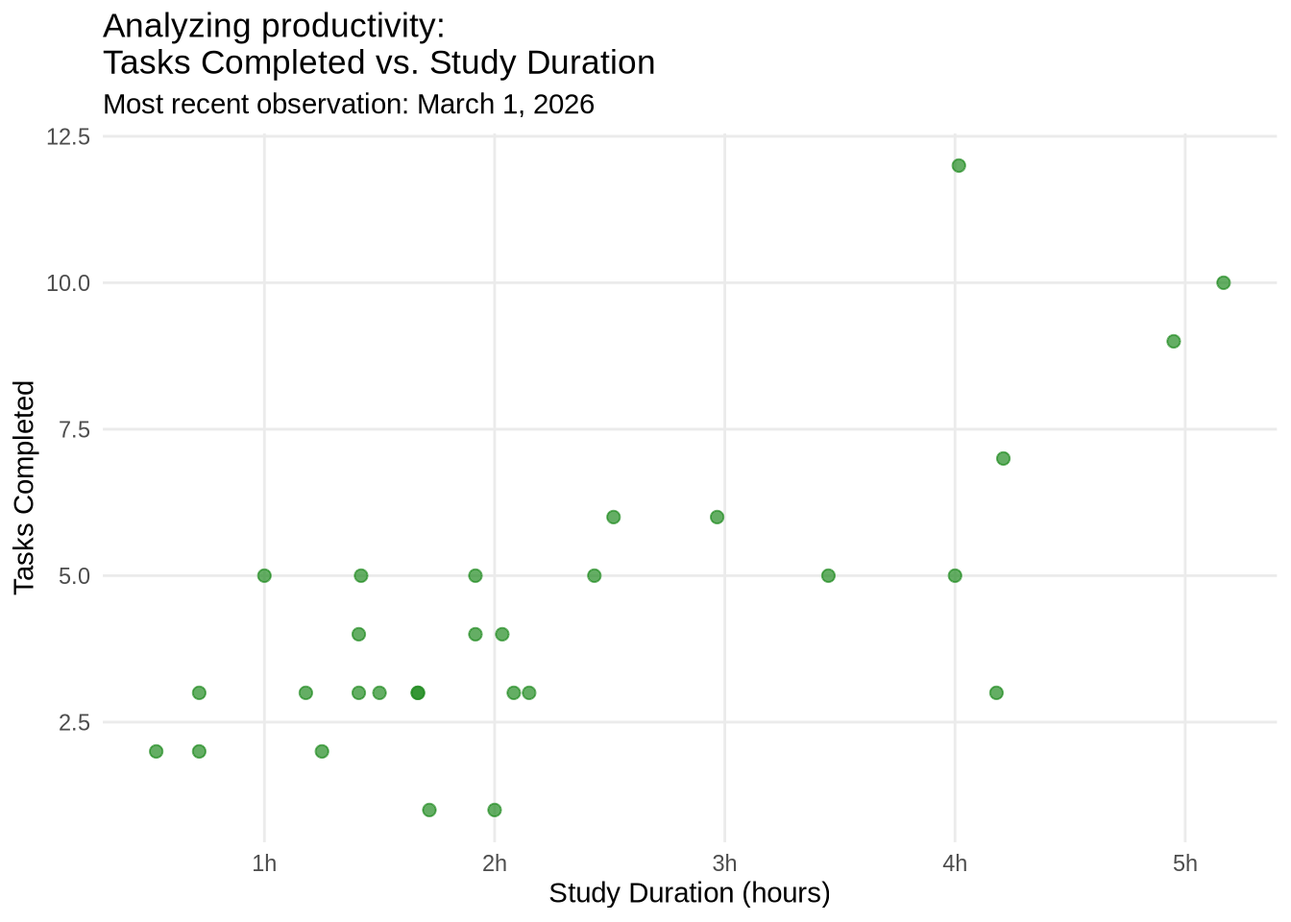
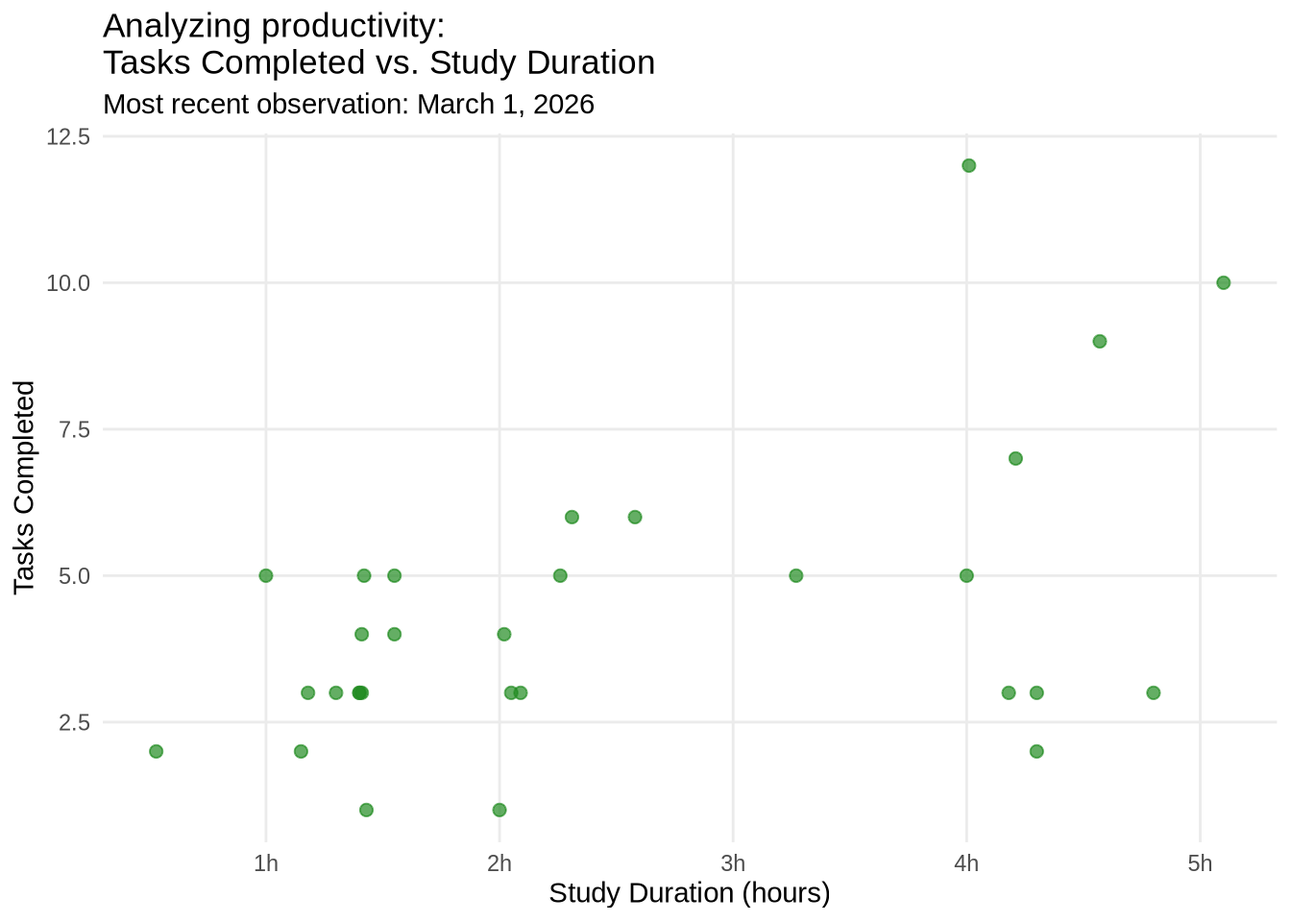
fix the visualizations

diff --git a/code/homework_03.html b/code/homework_03.html
@@ -70,7 +70,7 @@ pre > code.sourceCode > span > a:first-child::before { text-decoration: underlin
 <link href="homework_03_files/libs/quarto-html/quarto-syntax-highlighting-37eea08aefeeee20ff55810ff984fec1.css" rel="stylesheet" id="quarto-text-highlighting-styles">
 <script src="homework_03_files/libs/bootstrap/bootstrap.min.js"></script>
 <link href="homework_03_files/libs/bootstrap/bootstrap-icons.css" rel="stylesheet">
-<link href="homework_03_files/libs/bootstrap/bootstrap-f587f7f4293d47f68ac89e56eb41b7e5.min.css" rel="stylesheet" append-hash="true" id="quarto-bootstrap" data-mode="light">
+<link href="homework_03_files/libs/bootstrap/bootstrap-8a194af6e320b7e92a73b9d91467a5ca.min.css" rel="stylesheet" append-hash="true" id="quarto-bootstrap" data-mode="light">
 
 
 </head>
@@ -125,7 +125,7 @@ pre > code.sourceCode > span > a:first-child::before { text-decoration: underlin
 <p>Reading in data:</p>
 <div class="cell">
 <div class="sourceCode cell-code" id="cb2"><pre class="sourceCode r code-with-copy"><code class="sourceCode r"><span id="cb2-1"><a href="#cb2-1" aria-hidden="true" tabindex="-1"></a>salinity <span class="ot">&lt;-</span> <span class="fu">read_csv</span>(<span class="fu">here</span>(<span class="st">"data"</span>, <span class="st">"salinity-pickleweed.csv"</span>)) <span class="co"># store the data and save object as "salinity" </span></span>
-<span id="cb2-2"><a href="#cb2-2" aria-hidden="true" tabindex="-1"></a>my_data <span class="ot">&lt;-</span> <span class="fu">read_csv</span>(<span class="fu">here</span>(<span class="st">"data"</span>, <span class="st">"completed-personal_data.csv"</span>)) <span class="co"># Read in the personal data as an object named "my_data"</span></span></code><button title="Copy to Clipboard" class="code-copy-button"><i class="bi"></i></button></pre></div>
+<span id="cb2-2"><a href="#cb2-2" aria-hidden="true" tabindex="-1"></a>my_data <span class="ot">&lt;-</span> <span class="fu">read_csv</span>(<span class="fu">here</span>(<span class="st">"data"</span>, <span class="st">"official_personal_data.csv"</span>)) <span class="co"># Read in the personal data as an object named "my_data"</span></span></code><button title="Copy to Clipboard" class="code-copy-button"><i class="bi"></i></button></pre></div>
 </div>
 </section>
 <section id="problem-1.-slough-soil-salinity" class="level1">
@@ -289,38 +289,28 @@ sample estimates:
 <div class="sourceCode cell-code" id="cb11"><pre class="sourceCode r code-with-copy"><code class="sourceCode r"><span id="cb11-1"><a href="#cb11-1" aria-hidden="true" tabindex="-1"></a>my_clean_data <span class="ot">&lt;-</span> my_data <span class="sc">|&gt;</span> <span class="co"># use cleaned data-set</span></span>
 <span id="cb11-2"><a href="#cb11-2" aria-hidden="true" tabindex="-1"></a>  <span class="fu">clean_names</span>() <span class="sc">|&gt;</span> <span class="co"># clean column names</span></span>
 <span id="cb11-3"><a href="#cb11-3" aria-hidden="true" tabindex="-1"></a>  <span class="fu">rename</span>(<span class="at">duration =</span> duration_hr_mm) <span class="sc">|&gt;</span> <span class="co"># rename for easier use</span></span>
-<span id="cb11-4"><a href="#cb11-4" aria-hidden="true" tabindex="-1"></a>  <span class="fu">filter</span>(duration <span class="sc">!=</span> <span class="st">"48:00:00"</span>) <span class="sc">|&gt;</span> <span class="co"># remove the typo entry</span></span>
-<span id="cb11-5"><a href="#cb11-5" aria-hidden="true" tabindex="-1"></a>   <span class="co"># convert all durations to decimal point instead of ":"</span></span>
-<span id="cb11-6"><a href="#cb11-6" aria-hidden="true" tabindex="-1"></a>   <span class="fu">mutate</span>(<span class="at">duration_decimal =</span> <span class="fu">case_when</span>(</span>
-<span id="cb11-7"><a href="#cb11-7" aria-hidden="true" tabindex="-1"></a>    <span class="fu">str_detect</span>(duration, <span class="st">"</span><span class="sc">\\</span><span class="st">."</span>) <span class="sc">~</span> <span class="fu">as.numeric</span>(duration), <span class="co"># if format is 4.18, keep as numeric</span></span>
-<span id="cb11-8"><a href="#cb11-8" aria-hidden="true" tabindex="-1"></a>    <span class="fu">str_detect</span>(duration, <span class="st">":"</span>) <span class="sc">~</span> <span class="fu">period_to_seconds</span>(<span class="fu">hm</span>(duration)) <span class="sc">/</span> <span class="dv">3600</span> <span class="co"># if format is 1:43, convert to decimal</span></span>
-<span id="cb11-9"><a href="#cb11-9" aria-hidden="true" tabindex="-1"></a>  )) </span></code><button title="Copy to Clipboard" class="code-copy-button"><i class="bi"></i></button></pre></div>
-<div class="cell-output cell-output-stderr">
-<pre><code>Warning: There was 1 warning in `mutate()`.
-ℹ In argument: `duration_decimal = case_when(...)`.
-Caused by warning:
-! NAs introduced by coercion</code></pre>
-</div>
-<div class="sourceCode cell-code" id="cb13"><pre class="sourceCode r code-with-copy"><code class="sourceCode r"><span id="cb13-1"><a href="#cb13-1" aria-hidden="true" tabindex="-1"></a><span class="co"># base layer: ggplot</span></span>
-<span id="cb13-2"><a href="#cb13-2" aria-hidden="true" tabindex="-1"></a><span class="fu">ggplot</span>(</span>
-<span id="cb13-3"><a href="#cb13-3" aria-hidden="true" tabindex="-1"></a>  <span class="at">data =</span> my_clean_data,</span>
-<span id="cb13-4"><a href="#cb13-4" aria-hidden="true" tabindex="-1"></a>  <span class="fu">aes</span>(<span class="at">x =</span> duration_decimal, <span class="co"># predictor var: duration</span></span>
-<span id="cb13-5"><a href="#cb13-5" aria-hidden="true" tabindex="-1"></a>      <span class="at">y =</span> tasks_completed)) <span class="sc">+</span> <span class="co"># response var: tasks completed</span></span>
-<span id="cb13-6"><a href="#cb13-6" aria-hidden="true" tabindex="-1"></a>  <span class="co"># first layer: scatter-plot</span></span>
-<span id="cb13-7"><a href="#cb13-7" aria-hidden="true" tabindex="-1"></a>  <span class="fu">geom_point</span>(<span class="at">color =</span> <span class="st">"forestgreen"</span>, <span class="co"># green points</span></span>
-<span id="cb13-8"><a href="#cb13-8" aria-hidden="true" tabindex="-1"></a>             <span class="at">size =</span> <span class="dv">2</span>, </span>
-<span id="cb13-9"><a href="#cb13-9" aria-hidden="true" tabindex="-1"></a>             <span class="at">alpha =</span> <span class="fl">0.7</span>) <span class="sc">+</span> <span class="co"># slight transparency </span></span>
-<span id="cb13-10"><a href="#cb13-10" aria-hidden="true" tabindex="-1"></a>  <span class="co"># create readable labels, ticks every hour for clarity </span></span>
-<span id="cb13-11"><a href="#cb13-11" aria-hidden="true" tabindex="-1"></a>  <span class="fu">scale_x_continuous</span>(<span class="at">breaks =</span> <span class="fu">seq</span>(<span class="dv">0</span>, <span class="dv">6</span>, <span class="at">by =</span> <span class="dv">1</span>), <span class="co"># tick every hour</span></span>
-<span id="cb13-12"><a href="#cb13-12" aria-hidden="true" tabindex="-1"></a>                     <span class="at">labels =</span> <span class="fu">c</span>(<span class="st">"0h"</span>, <span class="st">"1h"</span>, <span class="st">"2h"</span>, <span class="st">"3h"</span>, <span class="st">"4h"</span>, <span class="st">"5h"</span>, <span class="st">"6h"</span>)) <span class="sc">+</span> </span>
-<span id="cb13-13"><a href="#cb13-13" aria-hidden="true" tabindex="-1"></a>  <span class="co"># title plot, x-axis, y-axis</span></span>
-<span id="cb13-14"><a href="#cb13-14" aria-hidden="true" tabindex="-1"></a>  <span class="fu">labs</span>(<span class="at">title =</span> <span class="st">"Analyzing productivity:</span><span class="sc">\n</span><span class="st">Tasks Completed vs. Study Duration"</span>,</span>
-<span id="cb13-15"><a href="#cb13-15" aria-hidden="true" tabindex="-1"></a>       <span class="at">x =</span> <span class="st">"Study Duration (hours)"</span>,</span>
-<span id="cb13-16"><a href="#cb13-16" aria-hidden="true" tabindex="-1"></a>       <span class="at">y =</span> <span class="st">"Tasks Completed"</span>,</span>
-<span id="cb13-17"><a href="#cb13-17" aria-hidden="true" tabindex="-1"></a>    <span class="at">subtitle =</span> <span class="st">"Most recent observation: March 1, 2026"</span>) <span class="sc">+</span> <span class="co"># most recent date</span></span>
-<span id="cb13-18"><a href="#cb13-18" aria-hidden="true" tabindex="-1"></a>  <span class="co"># add clean themes and remove minor grid lines</span></span>
-<span id="cb13-19"><a href="#cb13-19" aria-hidden="true" tabindex="-1"></a>  <span class="fu">theme_minimal</span>() <span class="sc">+</span> </span>
-<span id="cb13-20"><a href="#cb13-20" aria-hidden="true" tabindex="-1"></a>  <span class="fu">theme</span>(<span class="at">panel.grid.minor =</span> <span class="fu">element_blank</span>()) </span></code><button title="Copy to Clipboard" class="code-copy-button"><i class="bi"></i></button></pre></div>
+<span id="cb11-4"><a href="#cb11-4" aria-hidden="true" tabindex="-1"></a>   <span class="co"># convert all durations to decimal point instead of ":"</span></span>
+<span id="cb11-5"><a href="#cb11-5" aria-hidden="true" tabindex="-1"></a>  <span class="fu">mutate</span>(<span class="at">duration_decimal =</span> <span class="fu">as.numeric</span>(duration)) <span class="co"># convert decimal duration to numeric</span></span>
+<span id="cb11-6"><a href="#cb11-6" aria-hidden="true" tabindex="-1"></a><span class="co"># base layer: ggplot</span></span>
+<span id="cb11-7"><a href="#cb11-7" aria-hidden="true" tabindex="-1"></a><span class="fu">ggplot</span>(</span>
+<span id="cb11-8"><a href="#cb11-8" aria-hidden="true" tabindex="-1"></a>  <span class="at">data =</span> my_clean_data,</span>
+<span id="cb11-9"><a href="#cb11-9" aria-hidden="true" tabindex="-1"></a>  <span class="fu">aes</span>(<span class="at">x =</span> duration_decimal, <span class="co"># predictor var: duration</span></span>
+<span id="cb11-10"><a href="#cb11-10" aria-hidden="true" tabindex="-1"></a>      <span class="at">y =</span> tasks_completed)) <span class="sc">+</span> <span class="co"># response var: tasks completed</span></span>
+<span id="cb11-11"><a href="#cb11-11" aria-hidden="true" tabindex="-1"></a>  <span class="co"># first layer: scatter-plot</span></span>
+<span id="cb11-12"><a href="#cb11-12" aria-hidden="true" tabindex="-1"></a>  <span class="fu">geom_point</span>(<span class="at">color =</span> <span class="st">"forestgreen"</span>, <span class="co"># green points</span></span>
+<span id="cb11-13"><a href="#cb11-13" aria-hidden="true" tabindex="-1"></a>             <span class="at">size =</span> <span class="dv">2</span>, </span>
+<span id="cb11-14"><a href="#cb11-14" aria-hidden="true" tabindex="-1"></a>             <span class="at">alpha =</span> <span class="fl">0.7</span>) <span class="sc">+</span> <span class="co"># slight transparency </span></span>
+<span id="cb11-15"><a href="#cb11-15" aria-hidden="true" tabindex="-1"></a>  <span class="co"># create readable labels, ticks every hour for clarity </span></span>
+<span id="cb11-16"><a href="#cb11-16" aria-hidden="true" tabindex="-1"></a>  <span class="fu">scale_x_continuous</span>(<span class="at">breaks =</span> <span class="fu">seq</span>(<span class="dv">0</span>, <span class="dv">6</span>, <span class="at">by =</span> <span class="dv">1</span>), <span class="co"># tick every hour</span></span>
+<span id="cb11-17"><a href="#cb11-17" aria-hidden="true" tabindex="-1"></a>                     <span class="at">labels =</span> <span class="fu">c</span>(<span class="st">"0h"</span>, <span class="st">"1h"</span>, <span class="st">"2h"</span>, <span class="st">"3h"</span>, <span class="st">"4h"</span>, <span class="st">"5h"</span>, <span class="st">"6h"</span>)) <span class="sc">+</span> </span>
+<span id="cb11-18"><a href="#cb11-18" aria-hidden="true" tabindex="-1"></a>  <span class="co"># title plot, x-axis, y-axis</span></span>
+<span id="cb11-19"><a href="#cb11-19" aria-hidden="true" tabindex="-1"></a>  <span class="fu">labs</span>(<span class="at">title =</span> <span class="st">"Analyzing productivity:</span><span class="sc">\n</span><span class="st">Tasks Completed vs. Study Duration"</span>,</span>
+<span id="cb11-20"><a href="#cb11-20" aria-hidden="true" tabindex="-1"></a>       <span class="at">x =</span> <span class="st">"Study Duration (hours)"</span>,</span>
+<span id="cb11-21"><a href="#cb11-21" aria-hidden="true" tabindex="-1"></a>       <span class="at">y =</span> <span class="st">"Tasks Completed"</span>,</span>
+<span id="cb11-22"><a href="#cb11-22" aria-hidden="true" tabindex="-1"></a>    <span class="at">subtitle =</span> <span class="st">"Most recent observation: March 1, 2026"</span>) <span class="sc">+</span> <span class="co"># most recent date</span></span>
+<span id="cb11-23"><a href="#cb11-23" aria-hidden="true" tabindex="-1"></a>  <span class="co"># add clean themes and remove minor grid lines</span></span>
+<span id="cb11-24"><a href="#cb11-24" aria-hidden="true" tabindex="-1"></a>  <span class="fu">theme_minimal</span>() <span class="sc">+</span> </span>
+<span id="cb11-25"><a href="#cb11-25" aria-hidden="true" tabindex="-1"></a>  <span class="fu">theme</span>(<span class="at">panel.grid.minor =</span> <span class="fu">element_blank</span>()) </span></code><button title="Copy to Clipboard" class="code-copy-button"><i class="bi"></i></button></pre></div>
 <div class="cell-output-display">
 <div>
 <figure class="figure">
@@ -333,37 +323,37 @@ Caused by warning:
 <section id="categorical-variable-visualization-vs-tasks-completed" class="level3">
 <h3 class="anchored" data-anchor-id="categorical-variable-visualization-vs-tasks-completed">Categorical variable visualization: vs Tasks completed</h3>
 <div class="cell">
-<div class="sourceCode cell-code" id="cb14"><pre class="sourceCode r code-with-copy"><code class="sourceCode r"><span id="cb14-1"><a href="#cb14-1" aria-hidden="true" tabindex="-1"></a>my_clean_data <span class="ot">&lt;-</span> my_data <span class="sc">|&gt;</span> </span>
-<span id="cb14-2"><a href="#cb14-2" aria-hidden="true" tabindex="-1"></a>  <span class="fu">clean_names</span>() <span class="co"># columns names lower case with underscores</span></span>
-<span id="cb14-3"><a href="#cb14-3" aria-hidden="true" tabindex="-1"></a><span class="co"># base layer: ggplot using cleaned data-set</span></span>
-<span id="cb14-4"><a href="#cb14-4" aria-hidden="true" tabindex="-1"></a><span class="fu">ggplot</span>(<span class="at">data =</span> my_clean_data, </span>
-<span id="cb14-5"><a href="#cb14-5" aria-hidden="true" tabindex="-1"></a>      <span class="fu">aes</span>(<span class="at">x =</span> study_location, <span class="co"># categorical predictor on x-axis</span></span>
-<span id="cb14-6"><a href="#cb14-6" aria-hidden="true" tabindex="-1"></a>          <span class="at">y =</span> tasks_completed, <span class="co"># response variable on y-axis</span></span>
-<span id="cb14-7"><a href="#cb14-7" aria-hidden="true" tabindex="-1"></a>          <span class="at">fill =</span> study_location)) <span class="sc">+</span> </span>
-<span id="cb14-8"><a href="#cb14-8" aria-hidden="true" tabindex="-1"></a>  <span class="co"># add a cap at whisker end for visual appeal</span></span>
-<span id="cb14-9"><a href="#cb14-9" aria-hidden="true" tabindex="-1"></a>  <span class="fu">stat_boxplot</span>(</span>
-<span id="cb14-10"><a href="#cb14-10" aria-hidden="true" tabindex="-1"></a>    <span class="at">geom =</span> <span class="st">"errorbar"</span>, <span class="co"># adds horizontal caps at whisker ends</span></span>
-<span id="cb14-11"><a href="#cb14-11" aria-hidden="true" tabindex="-1"></a>    <span class="at">width =</span> <span class="fl">0.02</span>) <span class="sc">+</span> <span class="co"># width os the caps</span></span>
-<span id="cb14-12"><a href="#cb14-12" aria-hidden="true" tabindex="-1"></a>  <span class="co"># first layer: boxplot </span></span>
-<span id="cb14-13"><a href="#cb14-13" aria-hidden="true" tabindex="-1"></a>  <span class="fu">geom_boxplot</span>(<span class="at">alpha =</span> <span class="fl">0.6</span>, <span class="co"># make boxplot transparent </span></span>
-<span id="cb14-14"><a href="#cb14-14" aria-hidden="true" tabindex="-1"></a>               <span class="at">width =</span> <span class="fl">0.4</span>) <span class="sc">+</span> </span>
-<span id="cb14-15"><a href="#cb14-15" aria-hidden="true" tabindex="-1"></a>  <span class="co"># second layer: add jittered points </span></span>
-<span id="cb14-16"><a href="#cb14-16" aria-hidden="true" tabindex="-1"></a>  <span class="fu">geom_jitter</span>(<span class="at">width =</span> <span class="fl">0.1</span>, <span class="co"># horizontal spread to avoid overlap</span></span>
-<span id="cb14-17"><a href="#cb14-17" aria-hidden="true" tabindex="-1"></a>              <span class="at">alpha =</span> <span class="fl">0.7</span>, <span class="co"># semi-transparent points</span></span>
-<span id="cb14-18"><a href="#cb14-18" aria-hidden="true" tabindex="-1"></a>              <span class="at">size  =</span> <span class="dv">2</span>) <span class="sc">+</span> <span class="co"># point size</span></span>
-<span id="cb14-19"><a href="#cb14-19" aria-hidden="true" tabindex="-1"></a>    <span class="fu">scale_fill_manual</span>(<span class="at">values =</span> <span class="fu">c</span>(<span class="st">"Café"</span> <span class="ot">=</span> <span class="st">"#FEBC11"</span>, <span class="co"># warm gold for café</span></span>
-<span id="cb14-20"><a href="#cb14-20" aria-hidden="true" tabindex="-1"></a>                                 <span class="st">"Library"</span> <span class="ot">=</span> <span class="st">"#4169E1"</span>)) <span class="sc">+</span> <span class="co"># muted blue-green for library</span></span>
-<span id="cb14-21"><a href="#cb14-21" aria-hidden="true" tabindex="-1"></a>    <span class="fu">scale_y_continuous</span>(<span class="at">breaks =</span> <span class="fu">seq</span>(<span class="dv">0</span>, <span class="dv">12</span>, <span class="at">by =</span> <span class="dv">2</span>), <span class="at">limits =</span> <span class="fu">c</span>(<span class="dv">0</span>, <span class="dv">13</span>)) <span class="sc">+</span> <span class="co"># set  y-axis tick marks every 2 tasks for clarity</span></span>
-<span id="cb14-22"><a href="#cb14-22" aria-hidden="true" tabindex="-1"></a>    <span class="co"># add title and axis labels    </span></span>
-<span id="cb14-23"><a href="#cb14-23" aria-hidden="true" tabindex="-1"></a>    <span class="fu">labs</span>(<span class="at">title =</span> <span class="st">"Analyzing productivity:</span><span class="sc">\n</span><span class="st">Tasks Completed vs. Study Location"</span>,</span>
-<span id="cb14-24"><a href="#cb14-24" aria-hidden="true" tabindex="-1"></a>           <span class="at">x =</span> <span class="st">"Study Location"</span>,</span>
-<span id="cb14-25"><a href="#cb14-25" aria-hidden="true" tabindex="-1"></a>           <span class="at">y =</span> <span class="st">"Tasks Completed"</span>,</span>
-<span id="cb14-26"><a href="#cb14-26" aria-hidden="true" tabindex="-1"></a>  <span class="at">subtitle =</span> <span class="st">"Most recent observation: March 1, 2026"</span>) <span class="sc">+</span> <span class="co"># add subtitle with date</span></span>
-<span id="cb14-27"><a href="#cb14-27" aria-hidden="true" tabindex="-1"></a>  <span class="co"># set theme, remove legend, remove minor grid lines</span></span>
-<span id="cb14-28"><a href="#cb14-28" aria-hidden="true" tabindex="-1"></a>  <span class="fu">theme_minimal</span>() <span class="sc">+</span> </span>
-<span id="cb14-29"><a href="#cb14-29" aria-hidden="true" tabindex="-1"></a>  <span class="fu">theme</span>(<span class="at">legend.position =</span> <span class="st">"none"</span>) <span class="sc">+</span> </span>
-<span id="cb14-30"><a href="#cb14-30" aria-hidden="true" tabindex="-1"></a>  <span class="fu">theme</span>(<span class="at">panel.grid.minor =</span> <span class="fu">element_blank</span>(), </span>
-<span id="cb14-31"><a href="#cb14-31" aria-hidden="true" tabindex="-1"></a>        <span class="at">panel.grid.major.x =</span> <span class="fu">element_blank</span>())</span></code><button title="Copy to Clipboard" class="code-copy-button"><i class="bi"></i></button></pre></div>
+<div class="sourceCode cell-code" id="cb12"><pre class="sourceCode r code-with-copy"><code class="sourceCode r"><span id="cb12-1"><a href="#cb12-1" aria-hidden="true" tabindex="-1"></a>my_clean_data <span class="ot">&lt;-</span> my_data <span class="sc">|&gt;</span> </span>
+<span id="cb12-2"><a href="#cb12-2" aria-hidden="true" tabindex="-1"></a>  <span class="fu">clean_names</span>() <span class="co"># columns names lower case with underscores</span></span>
+<span id="cb12-3"><a href="#cb12-3" aria-hidden="true" tabindex="-1"></a><span class="co"># base layer: ggplot using cleaned data-set</span></span>
+<span id="cb12-4"><a href="#cb12-4" aria-hidden="true" tabindex="-1"></a><span class="fu">ggplot</span>(<span class="at">data =</span> my_clean_data, </span>
+<span id="cb12-5"><a href="#cb12-5" aria-hidden="true" tabindex="-1"></a>      <span class="fu">aes</span>(<span class="at">x =</span> study_location, <span class="co"># categorical predictor on x-axis</span></span>
+<span id="cb12-6"><a href="#cb12-6" aria-hidden="true" tabindex="-1"></a>          <span class="at">y =</span> tasks_completed, <span class="co"># response variable on y-axis</span></span>
+<span id="cb12-7"><a href="#cb12-7" aria-hidden="true" tabindex="-1"></a>          <span class="at">fill =</span> study_location)) <span class="sc">+</span> </span>
+<span id="cb12-8"><a href="#cb12-8" aria-hidden="true" tabindex="-1"></a>  <span class="co"># add a cap at whisker end for visual appeal</span></span>
+<span id="cb12-9"><a href="#cb12-9" aria-hidden="true" tabindex="-1"></a>  <span class="fu">stat_boxplot</span>(</span>
+<span id="cb12-10"><a href="#cb12-10" aria-hidden="true" tabindex="-1"></a>    <span class="at">geom =</span> <span class="st">"errorbar"</span>, <span class="co"># adds horizontal caps at whisker ends</span></span>
+<span id="cb12-11"><a href="#cb12-11" aria-hidden="true" tabindex="-1"></a>    <span class="at">width =</span> <span class="fl">0.02</span>) <span class="sc">+</span> <span class="co"># width os the caps</span></span>
+<span id="cb12-12"><a href="#cb12-12" aria-hidden="true" tabindex="-1"></a>  <span class="co"># first layer: boxplot </span></span>
+<span id="cb12-13"><a href="#cb12-13" aria-hidden="true" tabindex="-1"></a>  <span class="fu">geom_boxplot</span>(<span class="at">alpha =</span> <span class="fl">0.6</span>, <span class="co"># make boxplot transparent </span></span>
+<span id="cb12-14"><a href="#cb12-14" aria-hidden="true" tabindex="-1"></a>               <span class="at">width =</span> <span class="fl">0.4</span>) <span class="sc">+</span> </span>
+<span id="cb12-15"><a href="#cb12-15" aria-hidden="true" tabindex="-1"></a>  <span class="co"># second layer: add jittered points </span></span>
+<span id="cb12-16"><a href="#cb12-16" aria-hidden="true" tabindex="-1"></a>  <span class="fu">geom_jitter</span>(<span class="at">width =</span> <span class="fl">0.1</span>, <span class="co"># horizontal spread to avoid overlap</span></span>
+<span id="cb12-17"><a href="#cb12-17" aria-hidden="true" tabindex="-1"></a>              <span class="at">alpha =</span> <span class="fl">0.7</span>, <span class="co"># semi-transparent points</span></span>
+<span id="cb12-18"><a href="#cb12-18" aria-hidden="true" tabindex="-1"></a>              <span class="at">size  =</span> <span class="dv">2</span>) <span class="sc">+</span> <span class="co"># point size</span></span>
+<span id="cb12-19"><a href="#cb12-19" aria-hidden="true" tabindex="-1"></a>    <span class="fu">scale_fill_manual</span>(<span class="at">values =</span> <span class="fu">c</span>(<span class="st">"Café"</span> <span class="ot">=</span> <span class="st">"#FEBC11"</span>, <span class="co"># warm gold for café</span></span>
+<span id="cb12-20"><a href="#cb12-20" aria-hidden="true" tabindex="-1"></a>                                 <span class="st">"Library"</span> <span class="ot">=</span> <span class="st">"#4169E1"</span>)) <span class="sc">+</span> <span class="co"># muted blue-green for library</span></span>
+<span id="cb12-21"><a href="#cb12-21" aria-hidden="true" tabindex="-1"></a>    <span class="fu">scale_y_continuous</span>(<span class="at">breaks =</span> <span class="fu">seq</span>(<span class="dv">0</span>, <span class="dv">12</span>, <span class="at">by =</span> <span class="dv">2</span>), <span class="at">limits =</span> <span class="fu">c</span>(<span class="dv">0</span>, <span class="dv">13</span>)) <span class="sc">+</span> <span class="co"># set  y-axis tick marks every 2 tasks for clarity</span></span>
+<span id="cb12-22"><a href="#cb12-22" aria-hidden="true" tabindex="-1"></a>    <span class="co"># add title and axis labels    </span></span>
+<span id="cb12-23"><a href="#cb12-23" aria-hidden="true" tabindex="-1"></a>    <span class="fu">labs</span>(<span class="at">title =</span> <span class="st">"Analyzing productivity:</span><span class="sc">\n</span><span class="st">Tasks Completed vs. Study Location"</span>,</span>
+<span id="cb12-24"><a href="#cb12-24" aria-hidden="true" tabindex="-1"></a>           <span class="at">x =</span> <span class="st">"Study Location"</span>,</span>
+<span id="cb12-25"><a href="#cb12-25" aria-hidden="true" tabindex="-1"></a>           <span class="at">y =</span> <span class="st">"Tasks Completed"</span>,</span>
+<span id="cb12-26"><a href="#cb12-26" aria-hidden="true" tabindex="-1"></a>  <span class="at">subtitle =</span> <span class="st">"Most recent observation: March 1, 2026"</span>) <span class="sc">+</span> <span class="co"># add subtitle with date</span></span>
+<span id="cb12-27"><a href="#cb12-27" aria-hidden="true" tabindex="-1"></a>  <span class="co"># set theme, remove legend, remove minor grid lines</span></span>
+<span id="cb12-28"><a href="#cb12-28" aria-hidden="true" tabindex="-1"></a>  <span class="fu">theme_minimal</span>() <span class="sc">+</span> </span>
+<span id="cb12-29"><a href="#cb12-29" aria-hidden="true" tabindex="-1"></a>  <span class="fu">theme</span>(<span class="at">legend.position =</span> <span class="st">"none"</span>) <span class="sc">+</span> </span>
+<span id="cb12-30"><a href="#cb12-30" aria-hidden="true" tabindex="-1"></a>  <span class="fu">theme</span>(<span class="at">panel.grid.minor =</span> <span class="fu">element_blank</span>(), </span>
+<span id="cb12-31"><a href="#cb12-31" aria-hidden="true" tabindex="-1"></a>        <span class="at">panel.grid.major.x =</span> <span class="fu">element_blank</span>())</span></code><button title="Copy to Clipboard" class="code-copy-button"><i class="bi"></i></button></pre></div>
 <div class="cell-output-display">
 <div>
 <figure class="figure">
@@ -392,7 +382,7 @@ Caused by warning:
 </section>
 <section id="c.-make-a-draft-of-your-visualization." class="level2">
 <h2 class="anchored" data-anchor-id="c.-make-a-draft-of-your-visualization.">c.&nbsp;Make a draft of your visualization.</h2>
-<p>Add Draft: <img src="%5B%5Bsketch1.png%5D%5Dinsert%5D.png" class="img-fluid" alt="Draft"></p>
+<p>Add Draft: <img src="insert.png" class="img-fluid" alt="Draft"></p>
 </section>
 <section id="d.-write-an-artist-statement." class="level2">
 <h2 class="anchored" data-anchor-id="d.-write-an-artist-statement.">d.&nbsp;Write an artist statement.</h2>
